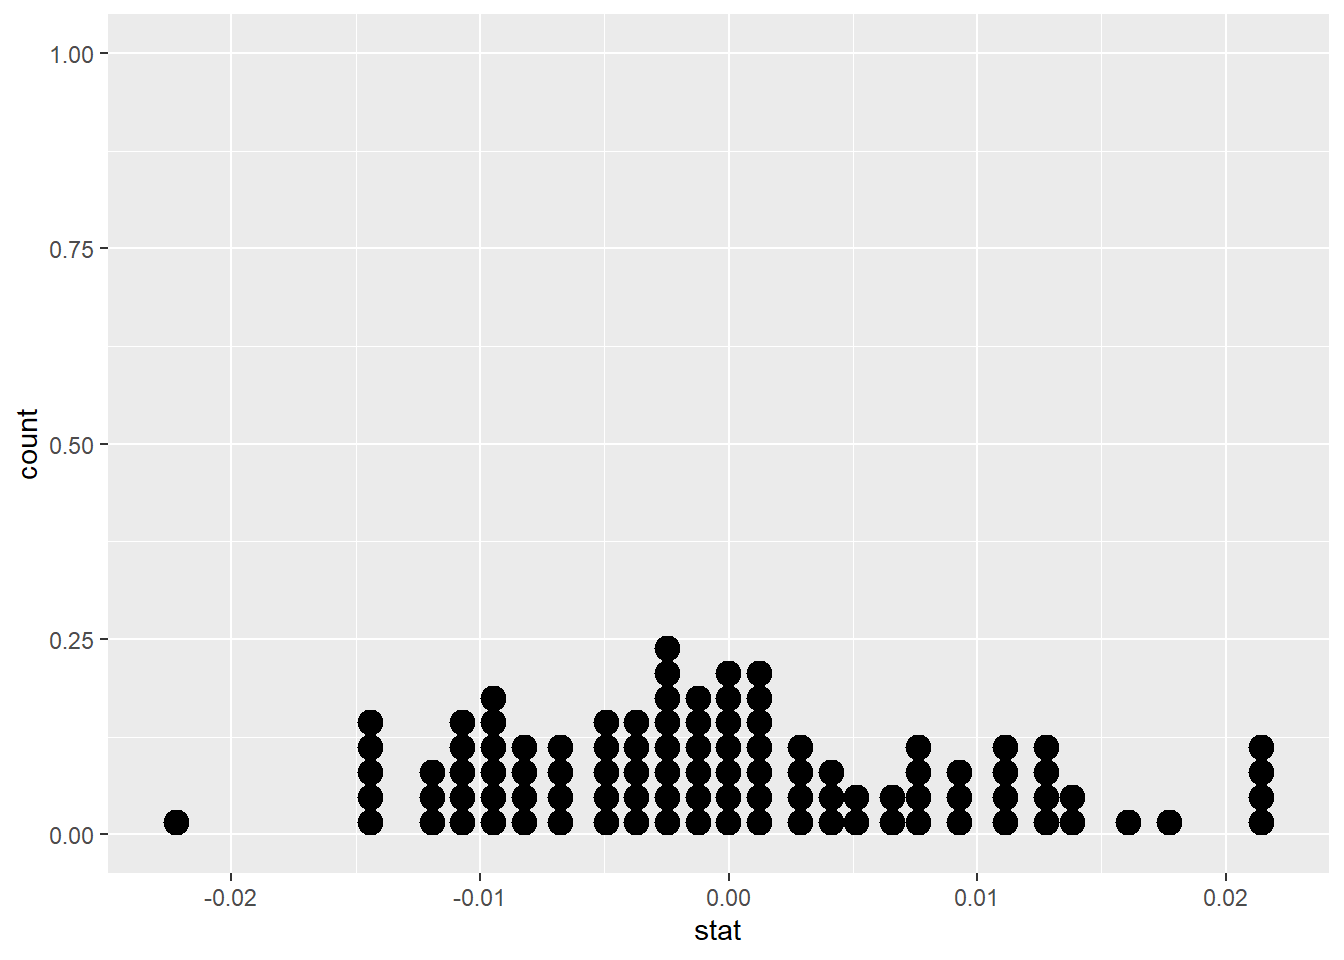
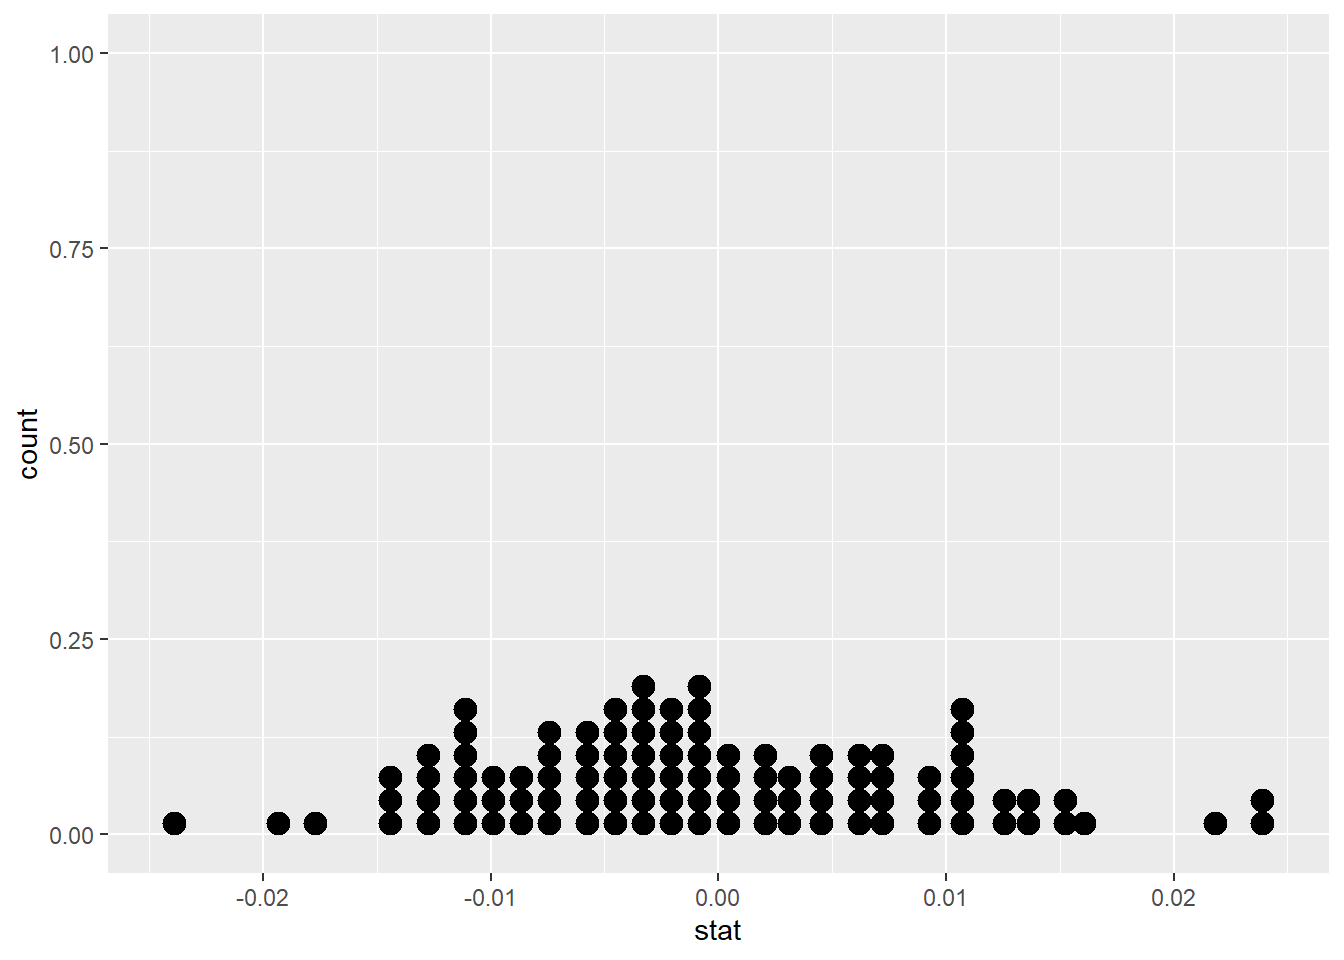
cc

diff --git a/content/post/R/2021-10-13-foundations-of-inference/index.en.html b/content/post/R/2021-10-13-foundations-of-inference/index.en.html
@@ -43,6 +43,10 @@ colnames(NHANES)</code></pre>
 ## [65] &quot;Marijuana&quot;        &quot;AgeFirstMarij&quot;    &quot;RegularMarij&quot;     &quot;AgeRegMarij&quot;     
 ## [69] &quot;HardDrugs&quot;        &quot;SexEver&quot;          &quot;SexAge&quot;           &quot;SexNumPartnLife&quot; 
 ## [73] &quot;SexNumPartYear&quot;   &quot;SameSex&quot;          &quot;SexOrientation&quot;   &quot;PregnantNow&quot;</code></pre>
+<pre class="r"><code>nrow(NHANES)</code></pre>
+<pre><code>## [1] 10000</code></pre>
+<pre class="r"><code>levels(NHANES$HealthGen)</code></pre>
+<pre><code>## [1] &quot;Excellent&quot; &quot;Vgood&quot;     &quot;Good&quot;      &quot;Fair&quot;      &quot;Poor&quot;</code></pre>
 <pre class="r"><code># Create bar plot for Home Ownership by Gender
 ggplot(NHANES, aes(x = Gender, fill = HomeOwn)) + 
   # Set the position to fill
@@ -64,10 +68,10 @@ ggplot(NHANES, aes(x = SleepHrsNight, color = SleepTrouble)) +
 <p>As seen in the video, natural variability can be modeled from shuffling observations around to remove any relationships that might exist in the population. However, before you permute the data, you need to calculate the original observed statistic. In this exercise, you will calculate the difference in proportion of home owners who are men versus women.</p>
 <p>Recall that:</p>
 <p>%in% returns a logical vector that is TRUE when values on the left hand side are listed on the right hand side.
-The mean of a logical vector is the proportion of cases where that vector is TRUE.
-fruits &lt;- c(“apple”, “banana”, “cherry”)
-fruits %in% c(“banana”, “cherry”)
-mean(fruits %in% c(“banana”, “cherry”))</p>
+The mean of a logical vector is the proportion of cases where that vector is TRUE.</p>
+<p>fruits &lt;- c(“apple”, “banana”, “cherry”)</p>
+<p>fruits %in% c(“banana”, “cherry”)</p>
+<p>mean(fruits %in% c(“banana”, “cherry”))</p>
 <pre class="r"><code># From previous step
 homes &lt;- NHANES %&gt;%
 # Select Gender and HomeOwn
@@ -94,10 +98,10 @@ diff_orig</code></pre>
 <h2>1-7 Randomized data under null model of independence</h2>
 <p>The infer package will allow you to model a particular null hypothesis and then randomize the data to calculate permuted statistics. In this exercise, after specifying your null hypothesis you will permute the home ownership variable 10 times. By doing so, you will ensure that there is no relationship between home ownership and gender, so any difference in home ownership proportion for female versus male will be due only to natural variability.</p>
 <p>This exercise will demonstrate the first three steps from the infer package:</p>
-<p>specify will specify the response and explanatory variables.
-hypothesize will declare the null hypothesis.
-generate will generate resamples, permutations, or simulations.
-The dplyr, ggplot2, NHANES, and infer packages have been loaded for you and the homes dataset you created in the last exercise is available in your workspace.</p>
+<p><em>specify</em> will specify the response and explanatory variables.</p>
+<p><em>hypothesize</em> will declare the null hypothesis.</p>
+<p><em>generate</em> will generate resamples, permutations, or simulations.</p>
+<p>The homes dataset you created in the last exercise is available in your workspace.</p>
 <pre class="r"><code># Specify variables
 homeown_perm &lt;- homes %&gt;%
   specify(HomeOwn ~ Gender, success = &quot;Own&quot;)
@@ -161,15 +165,15 @@ homeown_perm</code></pre>
 ##    HomeOwn Gender replicate
 ##    &lt;fct&gt;   &lt;fct&gt;      &lt;int&gt;
 ##  1 Own     male           1
-##  2 Rent    male           1
-##  3 Own     male           1
+##  2 Own     male           1
+##  3 Rent    male           1
 ##  4 Own     male           1
-##  5 Own     female         1
-##  6 Rent    male           1
+##  5 Rent    female         1
+##  6 Own     male           1
 ##  7 Own     male           1
 ##  8 Own     female         1
-##  9 Rent    female         1
-## 10 Rent    female         1
+##  9 Own     female         1
+## 10 Own     female         1
 ## # ... with 97,110 more rows</code></pre>
 </div>
 <div id="randomized-statistics-and-dotplot" class="section level2">
@@ -194,16 +198,16 @@ homeown_perm</code></pre>
 <pre><code>## # A tibble: 100 x 2
 ##    replicate     stat
 ##        &lt;int&gt;    &lt;dbl&gt;
-##  1         1 -0.0222 
-##  2         2  0.00865
-##  3         3  0.00823
-##  4         4 -0.00289
-##  5         5  0.00247
-##  6         6  0.00700
-##  7         7 -0.0202 
-##  8         8 -0.00783
-##  9         9  0.00700
-## 10        10 -0.00165
+##  1         1 -0.00824
+##  2         2 -0.00206
+##  3         3 -0.00247
+##  4         4  0.00782
+##  5         5  0.00453
+##  6         6  0.00412
+##  7         7  0.00288
+##  8         8  0.00123
+##  9         9  0.00947
+## 10        10  0.0136 
 ## # ... with 90 more rows</code></pre>
 <pre class="r"><code># Perform 100 permutations
 homeown_perm &lt;- homes %&gt;%
